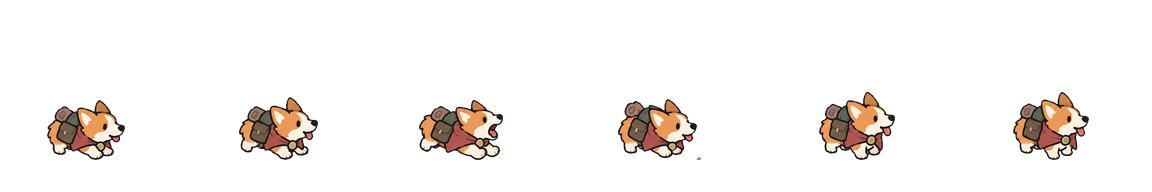
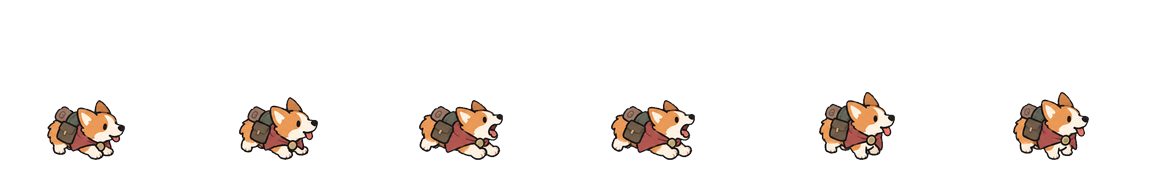
Dog SE touch-up approved and in the game; village v2 rock options run ($0.19)

Changed region(s): [[0.5312, 0.5312, 0.625, 0.8438]]

diff --git a/docs/art/ART-LOG.md b/docs/art/ART-LOG.md
@@ -80,6 +80,8 @@ Add a row for each new batch: date, tool, prompt file, model, count, cost if kno
 | 2026-10-30 | Dungeon wall kit in the stone of Brandon's dungeon pictures (`docs/art/references/dungeon-walls-target-1.png`, `-2.png`: big pale blocks, arches, short thick front walls, tall back walls): plain, cracked, corner pillar, arched doorway, capping, footing, flags, worn flags, floor edge; two tries (`wallkit_dungeon_v1/_v2.png`), cuts in `cut_dungeon_v1`, `_v2`, picked set in `final_dungeon/`. Pick v1. Courses don't line up between pieces; the pillar sits on wall | `picsart_sheet.py` | `art/prompts/sheet-wall-kit.txt` (dungeon ask) | GPT image (Picsart), 2K, 1:1 | 2 pictures | $0.28544 | go: Brandon (studio card `wall-kit-dungeon-go`, ceiling $0.30); all nine **approved** 2026-10-30 (review `wall-kit-dungeon-review`), in `game/art/source/battle/dungeon/` (`wall_*.png`, and `top_stone`, `top_stone_b`, `side_masonry` replace the dungeon floor) |
 | 2026-10-30 | The dog's reference sheet: Brandon's corgi (`docs/art/references/dog-corgi.png`) in a faded brick-red cloak, five facings and five actions (`art/picsart/out/dog/dog_reference_v1.png`), plus a portrait crop of his first view | `picsart_sheet.py` | `art/prompts/sheet-dog-reference.txt` | GPT image (Picsart), 1K, 3:2 | 1 picture | $0.05488 | go: Brandon (studio card `dog-concepts-go`, ceiling $0.06, answered with his corgi); sheet and portrait **approved** 2026-10-30 (review `dog-reference-review`): the sheet is the dog's key art at `docs/art/characters/dog-reference-sheet.png` (image 1 for his animation sheets), the portrait at `game/art/source/portraits/dog.png` |
 | 2026-10-30 | The dog's animation sheets, five facings (SE, S, E, NE, N): idle and blink, trot, bite, bark, hurt (`art/picsart/out/anim-dog-<dir>_v1.png`), cut at the small size class (`anim_sheet_cut.py --height 56`, head about 1.5 levels) into the staging folder `art/picsart/out/anim-dog-cut/dog/` with `dog.json`. SE turns almost to profile | `char_sheet.py` | `art/prompts/sheet-dog-anim.txt` (facings in `-asks.txt`) | GPT image (Picsart), 1K, 3:2 | 5 sheets | $0.2744 | go: Brandon (studio card `dog-anim-go`, ceiling $0.28); all five facings **approved** 2026-10-30 (review `dog-anim-review`), strips and `dog.json` in `game/art/source/characters/dog/` |
+| 2026-10-30 | Dog SE touch-up, no new art: idle frame 2 (a squint) replaced by frame 1, bite frame 4 (a stray bark mark) replaced by frame 3, by `tools/art/anim_frame_swap.py`; strips keep their length, `dog.json` unchanged | `anim_frame_swap.py` | none | none | 2 strips | $0 | Brandon (studio card `dog-se-fix-review`) **approved** 2026-10-30; in `game/art/source/characters/dog/dog_idle_se.png`, `dog_attack_se.png` |
+| 2026-10-30 | Village v2 rock cliff faces: six seamless-rock options on one picture (warm grey, darker with golden moss, grass tufts, blue-grey, calmer and broader, green moss streaks), two tries (`art/picsart/out/village-v2/village_v2_rock_v1/_v2.png`); waiting on Brandon's pick, then made seamless and wired as `village/side_rock.png` for village v2 only | `picsart_sheet.py` | `art/prompts/village-v2-rock.txt` | GPT image (Picsart), 2K, 3:2 | 2 pictures | $0.18904 | go: Brandon (studio card `village-v2-rock-go`, ceiling $0.20); results on review card `village-v2-rock-review` |
 
 ## Removed, replaced with placeholders (approved 2026-10-28)
 
